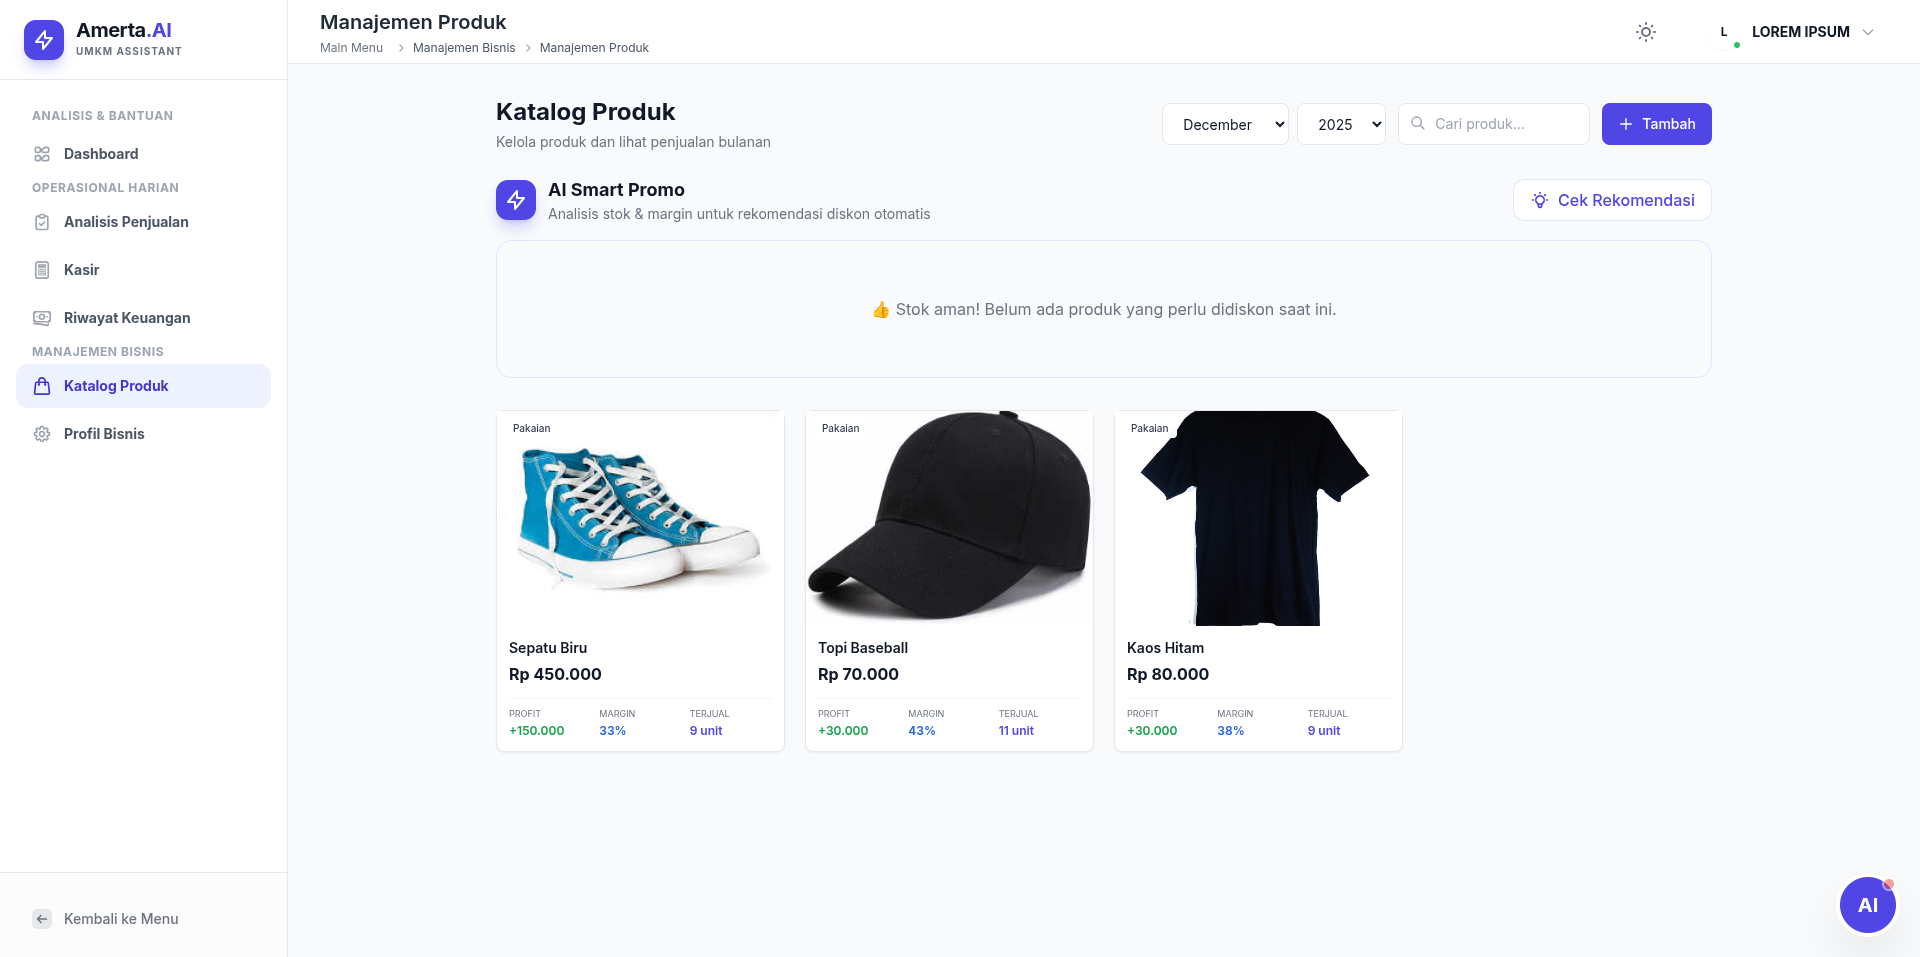
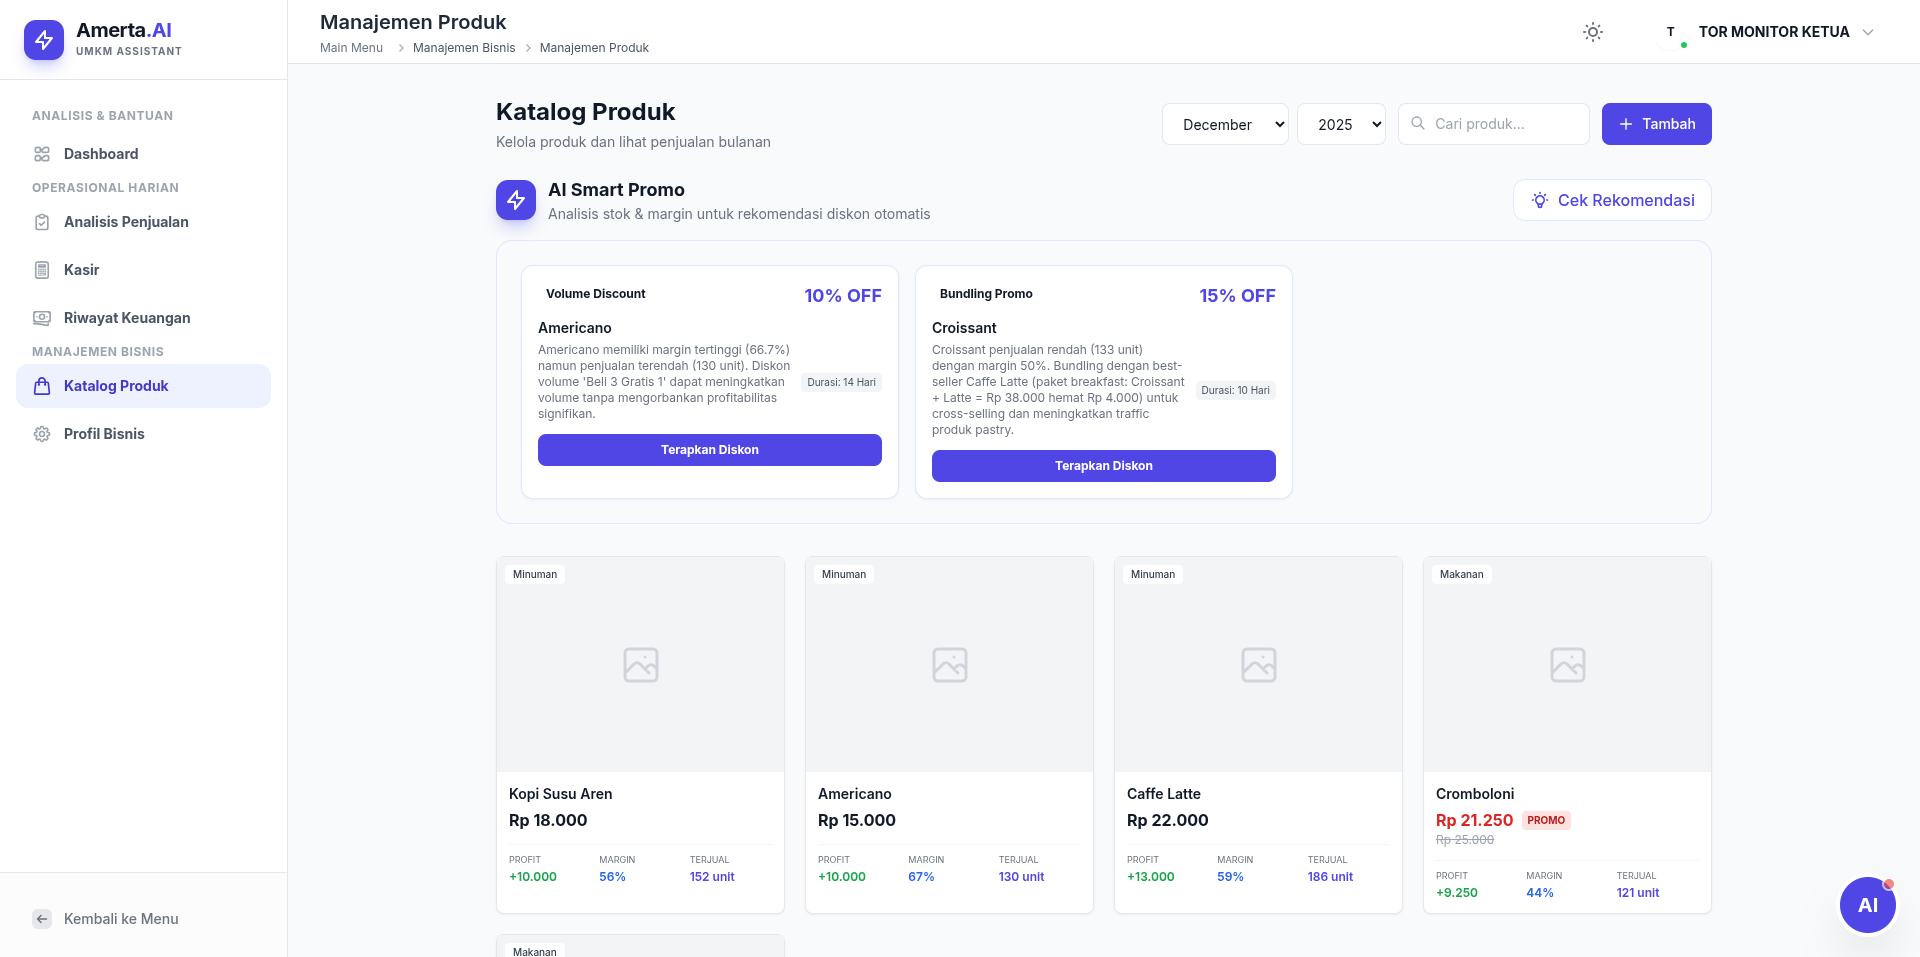
ubah dikit readme

diff --git a/README.md b/README.md
@@ -47,7 +47,7 @@ Amerta AI adalah website all-in-one yang dirancang untuk menjadi solusi digital 
     <tr>
       <td>
         <strong>Katalog Produk Bisnis</strong><br>
-        Visualisasi berbagai jenis produk yang sudah dibuat beserta analisis profit dan margin dari produk tersebut.
+        Visualisasi berbagai jenis produk yang sudah dibuat beserta analisis profit dan margin dari produk tersebut. Dengan masukan dari AI untuk mengatur harga promo dari produk tersebut.
       </td>
       <td>
         <img src="public/images/demo/katalog-produk.png" alt="Katalog Produk" width="800" />
@@ -78,6 +78,15 @@ Amerta AI adalah website all-in-one yang dirancang untuk menjadi solusi digital 
       </td>
       <td>
         <img src="public/images/demo/riwayat-transaksi.png" alt="Riwayat Transaksi" width="800" />
+      </td>
+    </tr>
+    <tr>
+      <td>
+        <strong>Profil Bisnis</strong><br>
+        Identitas bisnis beserta staf yang dapat diundang menggunakan kode referal.
+      </td>
+      <td>
+        <img src="public/images/demo/profilbisnis.png" alt="Riwayat Transaksi" width="800" />
       </td>
     </tr>
   </table>
